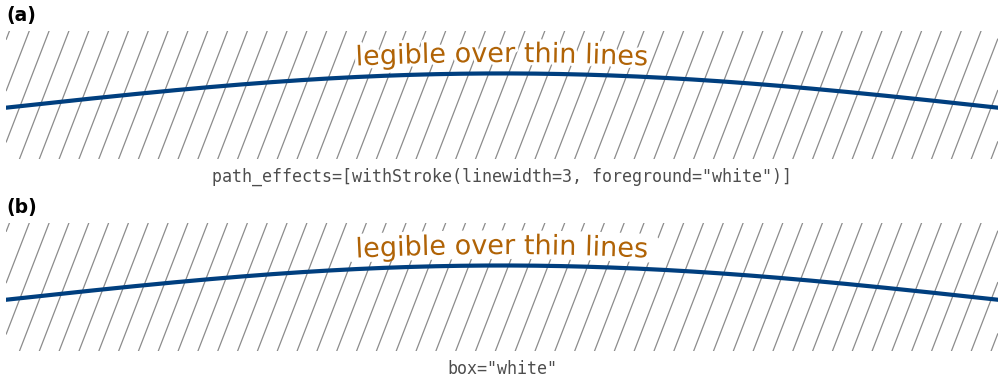
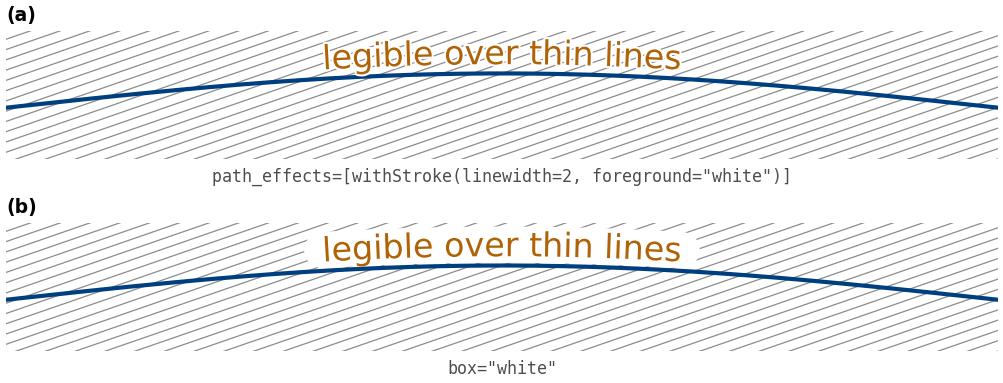
Mask the log-axis zeros in 26 and put every panel at one pos, keep 17's labels on slopes, darken 18's reference lines, and make 19's halo visibly differ from its box

Changed region(s): [[0.0, 0.5744, 1.0, 0.9191], [0.0, 0.0862, 1.0, 0.4308]]

diff --git a/examples/example_26_gaps.py b/examples/example_26_gaps.py
@@ -4,9 +4,12 @@ A curve breaks where it has no value to draw, and the label sits on the
 stretch of curve that holds its anchor, with ``pos`` measured along the drawn
 length. (a) NaN points: the square root of a cosine is undefined where the
 cosine is negative. (b) Masked points: a tangent masked where it runs off
-toward its poles. (c) Zeros on a log axis, which has no place for them: a
-signal recorded as 0 where it drops out, as counts below a detection limit
-are. Its axis shows the logarithmic scale.
+toward its poles. (c) Zeros on a log axis, which has no place for them:
+``10 ** cos(x)``, set to zero where the cosine falls below -0.5. The axis
+masks them (``nonpositive="mask"``), so the plotted line breaks where the
+label's stretch does, and its axis shows the logarithmic scale. Every panel
+makes the same call, ``pos=0.5``; in (c) the stretches are symmetric about
+the middle of the curve, so the label lands on the middle peak.
 """
 from __future__ import annotations
 
@@ -28,31 +31,32 @@ def make(images_dir):
         root = np.sqrt(np.cos(x))
     t = np.tan(x / 2)
     tangent = np.ma.masked_where(np.abs(t) > 4, t)
-    signal = np.where(np.sin(x) > -0.5, 10 ** np.sin(x), 0.0)
+    peaks = np.where(np.cos(x) > -0.5, 10 ** np.cos(x), 0.0)
     panels = [
-        (root, (-0.2, 1.4), "linear", 0.5,
+        (root, (-0.2, 1.4), None,
          "y = np.sqrt(np.cos(x))\n# NaN where cos(x) < 0"),
-        (tangent, (-4.5, 4.5), "linear", 0.5,
+        (tangent, (-4.5, 4.5), None,
          "t = np.tan(x / 2)\ny = np.ma.masked_where(\n    np.abs(t) > 4, t)"),
-        (signal, (0.2, 20.0), "log", 0.67,
-         'y = np.where(np.sin(x) > -0.5,\n'
-         '             10 ** np.sin(x), 0)\n'
-         'ax.set_yscale("log")'),
+        (peaks, (0.2, 20.0), "log",
+         'y = np.where(np.cos(x) > -0.5,\n'
+         '             10 ** np.cos(x), 0)\n'
+         'ax.set_yscale("log",\n'
+         '              nonpositive="mask")'),
     ]
-    for ax, (y, ylim, scale, pos, call) in zip(axes, panels):
+    for ax, (y, ylim, scale, call) in zip(axes, panels):
         if scale == "log":
             # The scale is the subject here, so its axis stays visible.
-            data_axes(ax, font_size=7)
+            data_axes(ax, font_size=8)
             ax.set_xticks([])
+            ax.set_yscale("log", nonpositive="mask")
         else:
             bare(ax)
         ax.plot(x, y, color=CURVE_COLOR, linewidth=2)
-        ax.set_yscale(scale)
         # Room at the sides, so the space between panels reads as a margin,
         # not as another gap.
         ax.set_xlim(-0.8, 4 * np.pi + 0.8)
         ax.set_ylim(*ylim)
-        curved_text(ax, x, y, "a stretch", pos=pos, anchor="center",
+        curved_text(ax, x, y, "a stretch", pos=0.5, anchor="center",
                     offset=6.0, color=LABEL_COLOR, fontsize=10)
         caption(ax, call)
     panel_letters(axes)

diff --git a/examples/example_19_halo_or_box.py b/examples/example_19_halo_or_box.py
@@ -1,6 +1,6 @@
 """A halo or a box: two ways to keep a label legible over the lines it crosses.
 
-The same label over a family of thin lines that cross it at a steep angle,
+The same label over a family of thin lines that cross it at a shallow angle,
 cleared two ways. (a) A halo, a thin white ``withStroke`` around each glyph
 (``path_effects``): it hides the lines only where they touch the letters, so
 they stay readable on either side of each letter, which suits thin lines and
@@ -19,6 +19,11 @@ from curved_text import curved_text
 from _style import (CURVE_COLOR, LABEL_COLOR, bare, caption, figure,
                     panel_letters, save)
 
+YLIM = (0.4, 1.9)
+# The background lines: their slope, and the vertical distance between them.
+SLOPE = 0.4
+SPACING = 0.12
+
 
 def make(images_dir):
     fig = figure(17, 6.5, font_size=8)
@@ -27,24 +32,25 @@ def make(images_dir):
     x = np.linspace(0, 10, 400)
     y = 1.0 + 0.4 * np.sin(np.pi * x / 10.0)
     panels = [
-        ('path_effects=[withStroke(linewidth=3, foreground="white")]',
-         {"path_effects": [patheffects.withStroke(linewidth=3,
+        ('path_effects=[withStroke(linewidth=2, foreground="white")]',
+         {"path_effects": [patheffects.withStroke(linewidth=2,
                                                   foreground="white")]}),
         ('box="white"', {"box": "white"}),
     ]
     for ax, (call, kwargs) in zip(axes, panels):
         bare(ax)
         ax.set_xlim(0, 10)
-        ax.set_ylim(0.4, 1.9)
-        # A family of thin parallel lines crossing the label steeply, like the
-        # traces of a dense plot behind it.
-        for intercept in np.arange(-30.0, 10.5, 0.6):
-            ax.plot(x, 3.0 * x + intercept, color="0.55", linewidth=0.6,
+        ax.set_ylim(*YLIM)
+        # A family of thin parallel lines crossing the label at a shallow
+        # angle, like the traces of a dense plot behind it; the intercepts
+        # cover every line that reaches the axes.
+        for intercept in np.arange(YLIM[0] - SLOPE * x[-1], YLIM[1], SPACING):
+            ax.plot(x, SLOPE * x + intercept, color="0.55", linewidth=0.6,
                     zorder=1)
         ax.plot(x, y, color=CURVE_COLOR, linewidth=2, zorder=2)
         curved_text(ax, x, y, "legible over thin lines", pos=0.5,
                     anchor="center", offset=10.0, color=LABEL_COLOR,
-                    fontsize=13, zorder=3, **kwargs)
+                    fontsize=16, zorder=3, **kwargs)
         caption(ax, call)
     panel_letters(axes)
 

diff --git a/examples/example_17_direction_of_travel.py b/examples/example_17_direction_of_travel.py
@@ -21,13 +21,22 @@ from _style import (CURVE_COLOR, LABEL_COLOR, MARK_COLOR, bare, caption,
                     figure, panel_letters, save)
 
 
+# How many points the direction arrow spans from the first one: a short
+# chord, well clear of the label.
+ARROW_POINTS = 45
+
+
 def _direction_arrow(ax, x, y):
-    """An arrow along the curve from its first point, in the direction the
-    points run."""
-    ax.annotate("", xy=(x[60], y[60]), xytext=(x[0], y[0]),
+    """An arrow from the curve's first point, in the direction the points run.
+
+    It is a reference mark, so it sits above the label, as ``anchor_mark``
+    does, but without a halo, which would erase the curve it runs along.
+    """
+    tip = (x[ARROW_POINTS], y[ARROW_POINTS])
+    ax.annotate("", xy=tip, xytext=(x[0], y[0]),
                 arrowprops={"arrowstyle": "-|>", "color": MARK_COLOR,
                             "linewidth": 1.5, "shrinkA": 0, "shrinkB": 0},
-                zorder=4)
+                zorder=10)
 
 
 def make(images_dir):
@@ -49,8 +58,8 @@ def make(images_dir):
         if invert:
             ax.invert_xaxis()
         _direction_arrow(ax, cx, cy)
-        curved_text(ax, cx, cy, "reads this way", pos=0.3, anchor="center",
-                    offset=9.0, color=LABEL_COLOR, fontsize=10)
+        curved_text(ax, cx, cy, "reads this way", pos=0.4, anchor="center",
+                    offset=7.0, color=LABEL_COLOR, fontsize=10)
         caption(ax, call)
     panel_letters(axes)
 

diff --git a/examples/example_18_repeated_labels.py b/examples/example_18_repeated_labels.py
@@ -3,7 +3,7 @@
 One call per label, each at its own ``pos``, so a long curve carries its name
 wherever the reader's eye meets it. Each label sits on a slope between a peak
 and a trough, so the decay of the oscillation stays visible, and clears the
-faint reference lines behind it with a casing, given here in its dict form:
+thin reference lines behind it with a casing, given here in its dict form:
 ``pad`` sets the band's height relative to the tallest glyph, and ``color``
 its colour, white to match the page.
 """
@@ -29,10 +29,10 @@ def make(images_dir):
     y = np.exp(-x / 12.0) * np.sin(x)
     ax.set_xlim(-0.3, 6 * np.pi + 0.3)
     ax.set_ylim(-1.2, 1.2)
-    # Faint reference lines, so the casing's band, and its height, show where
+    # Thin reference lines, so the casing's band, and its height, show where
     # it clears them.
     for level in np.arange(-1.0, 1.01, 0.25):
-        ax.axhline(level, color="0.85", linewidth=0.6, zorder=1)
+        ax.axhline(level, color="0.55", linewidth=0.6, zorder=1)
     ax.plot(x, y, color=CURVE_COLOR, linewidth=1.5, zorder=2)
 
     for pos in POSITIONS:
